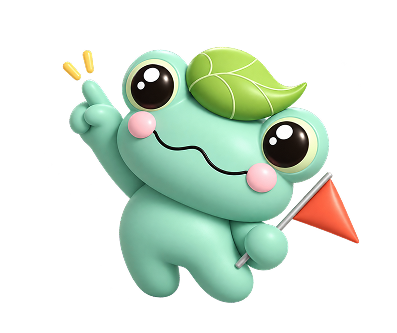
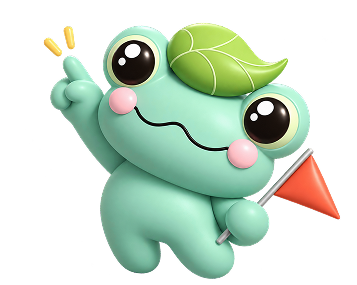
homepage 제발 끝

Changed region(s): [[0.1232, 0.0561, 0.9552, 0.9825]]

diff --git a/frontend/src/pages/HomePage.js b/frontend/src/pages/HomePage.js
@@ -2,7 +2,10 @@ import { useState } from "react";
 import { Link } from "react-router-dom";
 import { mockUser } from "../mock/userMock";
 import { mockCalendarEvents, categoryColors } from "../mock/calendarMock";
+import { mockTimetable } from "../mock/timetableMock";
 import { mockDegree } from "../mock/degreeMock";
+import frodo from "../assets/frodo2.png";
+import { FiChevronRight, FiBell, FiBook } from "react-icons/fi";
 import Sidebar from "../components/Sidebar";
 import "./HomePage.css";
 
@@ -10,11 +13,15 @@ const WEEKDAYS = ['월', '화', '수', '목', '금', '토', '일'];
 const MAX_DOTS = 3;
 const toDateKey = (date) =>
     `${date.getFullYear()}-${String(date.getMonth() + 1).padStart(2, '0')}-${String(date.getDate()).padStart(2, '0')}`;
+const toMinutes = (time) => Number(time.slice(0, 2)) * 60 + Number(time.slice(3, 5));
+const DDAY_CATEGORIES = ['과제', '개인일정'];
+const DDAY_LIMIT = 2;
 
 function Home() {
     const [user] = useState(mockUser);
     const [degree] = useState(mockDegree);
     const [events] = useState(mockCalendarEvents);
+    const [timetable] = useState(mockTimetable);
 
     // 주간 일정
 
@@ -33,6 +40,24 @@ function Home() {
             events: events.filter((e) => e.date === key),
         };
     });
+
+    // 오늘 일정
+
+    const todayLabel = WEEKDAYS[(today.getDay() + 6) % 7];
+    const todayItems = [
+        ...timetable
+            .filter((t) => t.day === todayLabel)
+            .map((t) => ({ key: `class-${t.id}`, time: t.startTime, endTime: t.endTime, title: t.courseName, location: t.location, category: '수업' })),
+        ...events
+            .filter((e) => e.date === todayKey && e.category !== '과제')
+            .map((e) => ({ key: `event-${e.id}`, time: e.time, endTime: e.time, title: e.title, location: e.location, category: e.category })),
+    ].sort((a, b) => {
+        if (!a.time) return -1;
+        if (!b.time) return 1;
+        return toMinutes(a.time) - toMinutes(b.time);
+    });
+    const nowMinutes = today.getHours() * 60 + today.getMinutes();
+    const activeKey = todayItems.find((item) => item.endTime && toMinutes(item.endTime) >= nowMinutes)?.key;
 
     // 졸업 진행률
 
@@ -59,6 +84,19 @@ function Home() {
         const angle = (arc.start + arc.len) / r;
         return { x: c + r * Math.cos(angle), y: c + r * Math.sin(angle) };
     };
+
+    // D-Day 알림
+    const todayMidnight = new Date(today.getFullYear(), today.getMonth(), today.getDate());
+    const ddayItems = events
+        .filter((e) => DDAY_CATEGORIES.includes(e.category))
+        .map((e) => {
+            const [y, m, d] = e.date.split('-').map(Number);
+            return { ...e, days: Math.round((new Date(y, m - 1, d) - todayMidnight) / 86400000) };
+        })
+        .filter((e) => e.days > 0 || (e.days === 0 && (!e.time || toMinutes(e.time) >= nowMinutes)))
+        .sort((a, b) => a.days - b.days || toMinutes(a.time ?? '00:00') - toMinutes(b.time ?? '00:00'))
+        .slice(0, DDAY_LIMIT);
+    const ddayLabel = (e) => (e.days === 0 ? (e.time ? `오늘 ${e.time}` : 'D-Day') : `D-${e.days}`);
 
     return (
         <div className="layout">
@@ -90,6 +128,7 @@ function Home() {
                             ))}
                         </div>
                     </Link>
+                    
                     <Link to="/degree" className="box grad-box">
                         <div className="grad-header">
                             <h5 className="grad-title">졸업 진행률</h5>
@@ -128,13 +167,63 @@ function Home() {
                             </div>
                         </div>
                     </Link>
-                    <section className="box">
-                        <h5>오늘 일정</h5>
+
+                    <section className="box today-box">
+                        <div className="today-header">
+                            <h5 className="today-title">오늘 일정</h5>
+                            <Link to="/calendar" className="today-btn">일정 수정하기 <FiChevronRight /></Link>
+                        </div>
+                        {todayItems.length === 0 ? (
+                            <p className="today-empty">오늘은 일정이 없어요.</p>
+                        ) : (
+                            <ul className="today-list">
+                                {todayItems.map((item, i) => (
+                                    <li key={item.key} className="today-row">
+                                        <div className="today-time-col">
+                                            <span className={`today-time ${item.key === activeKey ? 'is-active' : ''}`}>
+                                                {item.time ?? '종일'}
+                                            </span>
+                                            {i < todayItems.length - 1 && <span className="today-line" />}
+                                        </div>
+                                        <div className="today-card">
+                                            <div>
+                                                <p className="today-name">{item.title}</p>
+                                                {item.location && <p className="today-location">{item.location}</p>}
+                                            </div>
+                                            <span className="today-category">
+                                                <span className="today-category-dot" style={{ backgroundColor: categoryColors[item.category] }} />
+                                                {item.category}
+                                            </span>
+                                        </div>
+                                    </li>
+                                ))}
+                            </ul>
+                        )}
                     </section>
-                    <section className="box">
-                        <h5>D-Day 알림</h5>
+
+                    <section className="box dday-box">
+                        <h5 className="dday-title"><FiBell className="dday-bell" /> D-Day 알림</h5>
+                        {ddayItems.length === 0 ? (
+                            <p className="dday-empty">다가오는 일정이 없어요.</p>
+                        ) : (
+                            <ul className="dday-list">
+                                {ddayItems.map((e) => (
+                                    <li key={e.id} className="dday-card">
+                                        <span className="dday-icon"><FiBook size={22} /></span>
+                                        <div>
+                                            <p className="dday-name">
+                                                {e.title}
+                                                <span className="dday-count">{ddayLabel(e)}</span>
+                                            </p>
+                                            <p className="dday-meta">{e.subject ? `${e.subject} | ${e.category}` : e.category}</p>
+                                        </div>
+                                    </li>
+                                ))}
+                            </ul>
+                        )}
                     </section>
                 </div>
+                <img className="home-frodo" src={frodo} alt="frodo" />
             </div>
         </div>
     );

diff --git a/frontend/src/pages/HomePage.css b/frontend/src/pages/HomePage.css
@@ -122,3 +122,180 @@
     margin: 0;
 }
  
+.box.today-box {
+    background-color: rgba(57, 177, 157, 0.15);
+}
+.today-header {
+    display: flex;
+    align-items: center;
+    justify-content: space-between;
+    margin-bottom: 16px;
+}
+.today-title {
+    margin: 0;
+    font-weight: bold;
+}
+.today-btn {
+    display: inline-flex;
+    align-items: center;
+    gap: 2px;
+    border-radius: 8px;
+    background-color: #39B19D;
+    color: black;
+    font-size: 12px;
+    font-weight: 600;
+    padding: 6px 12px;
+}
+.today-list {
+    --today-card-height: 65px;
+    --today-card-gap: 12px;
+    list-style: none;
+    padding: 0;
+    margin: 0;
+}
+.today-row {
+    display: grid;
+    grid-template-columns: 64px 1fr;
+    gap: 16px;
+}
+.today-time-col {
+    position: relative;
+    display: flex;
+    align-items: center;
+    justify-content: center;
+    height: var(--today-card-height);
+}
+.today-time {
+    font-size: 15px;
+    font-weight: 600;
+    color: #808080;
+    padding: 4px 10px;
+    border-radius: 10px;
+}
+.today-time.is-active {
+    background-color: #39B19D;
+    color: white;
+    box-shadow: 0 5px 13px 0 rgba(0, 0, 0, 0.25);
+}
+.today-line {
+    position: absolute;
+    left: calc(50% - 1px);
+    top: calc(50% + 19px);
+    height: calc(var(--today-card-height) + var(--today-card-gap) - 38px);
+    border-left: 2px dotted #808080;
+}
+.today-card {
+    display: flex;
+    align-items: center;
+    justify-content: space-between;
+    gap: 12px;
+    height: var(--today-card-height);
+    background-color: white;
+    border-radius: 16px;
+    padding: 12px 20px;
+    margin-bottom: var(--today-card-gap);
+}
+.today-name {
+    font-size: 16px;
+    font-weight: 700;
+    margin: 0;
+}
+.today-location {
+    font-size: 13px;
+    font-weight: 600;
+    color: #363636;
+    margin: 4px 0 0;
+}
+.today-category {
+    display: inline-flex;
+    align-items: center;
+    gap: 6px;
+    font-size: 12px;
+    font-weight: 600;
+    white-space: nowrap;
+}
+.today-category-dot {
+    width: 8px;
+    height: 8px;
+    border-radius: 50%;
+}
+.today-empty {
+    color: #363636;
+    font-weight: 600;
+    margin: 0;
+}
+
+.box.dday-box {
+    background-color: rgba(57, 177, 157, 0.15);
+}
+.dday-title {
+    display: flex;
+    align-items: center;
+    gap: 8px;
+    font-weight: bold;
+    min-height: 30px;
+    margin-bottom: 16px;
+}
+.dday-bell {
+    color: #F2C230;
+}
+.dday-list {
+    list-style: none;
+    padding: 0;
+    margin: 0;
+    display: flex;
+    flex-direction: column;
+    gap: 12px;
+}
+.dday-card {
+    display: flex;
+    align-items: center;
+    gap: 16px;
+    height: 65px;
+    background-color: white;
+    border-radius: 16px;
+    padding: 12px 16px;
+}
+.dday-icon {
+    display: flex;
+    align-items: center;
+    justify-content: center;
+    flex-shrink: 0;
+    width: 48px;
+    height: 48px;
+    border-radius: 50%;
+    background-color: #EEF4F2;
+    color: #1F2A27;
+}
+.dday-name {
+    font-size: 17px;
+    font-weight: 600;
+    color: #074538;
+    margin: 0;
+}
+.dday-count {
+    color: #C00F0C;
+    margin-left: 16px;
+}
+.dday-meta {
+    font-size: 13px;
+    font-weight: 600;
+    color: #2F5E4E;
+    margin: 2px 0 0;
+}
+.dday-empty {
+    color: #8A8F8D;
+    font-weight: 600;
+    margin: 0;
+}
+
+.home-frodo {
+    position: fixed;
+    right: 10vw;
+    bottom: 3vh;
+    width: 20vw;
+    max-width: 320px;
+    height: auto;
+    z-index: 0;
+    pointer-events: none; 
+}

diff --git a/frontend/src/mock/timetableMock.js b/frontend/src/mock/timetableMock.js
@@ -1,0 +1,12 @@
+export const mockTimetable = [
+    { id: 1, courseName: '타이포그래피 I',  day: '월', startTime: '09:00', endTime: '10:15', location: '예405' },
+    { id: 2, courseName: '인간의 가치탐색', day: '월', startTime: '15:30', endTime: '16:45', location: '멀302' },
+    { id: 1, courseName: '타이포그래피 I',  day: '화', startTime: '09:00', endTime: '10:15', location: '예405' },
+    { id: 2, courseName: '인간의 가치탐색', day: '화', startTime: '15:30', endTime: '16:45', location: '멀302' },
+    { id: 1, courseName: '타이포그래피 I',  day: '수', startTime: '09:00', endTime: '10:15', location: '예405' },
+    { id: 2, courseName: '인간의 가치탐색', day: '수', startTime: '15:30', endTime: '16:45', location: '멀302' },
+    { id: 1, courseName: '타이포그래피 I',  day: '목', startTime: '09:00', endTime: '10:15', location: '예405' },
+    { id: 2, courseName: '인간의 가치탐색', day: '목', startTime: '15:30', endTime: '16:45', location: '멀302' },
+    { id: 1, courseName: '타이포그래피 I',  day: '금', startTime: '09:00', endTime: '10:15', location: '예405' },
+    { id: 2, courseName: '인간의 가치탐색', day: '금', startTime: '15:30', endTime: '16:45', location: '멀302' },
+];
